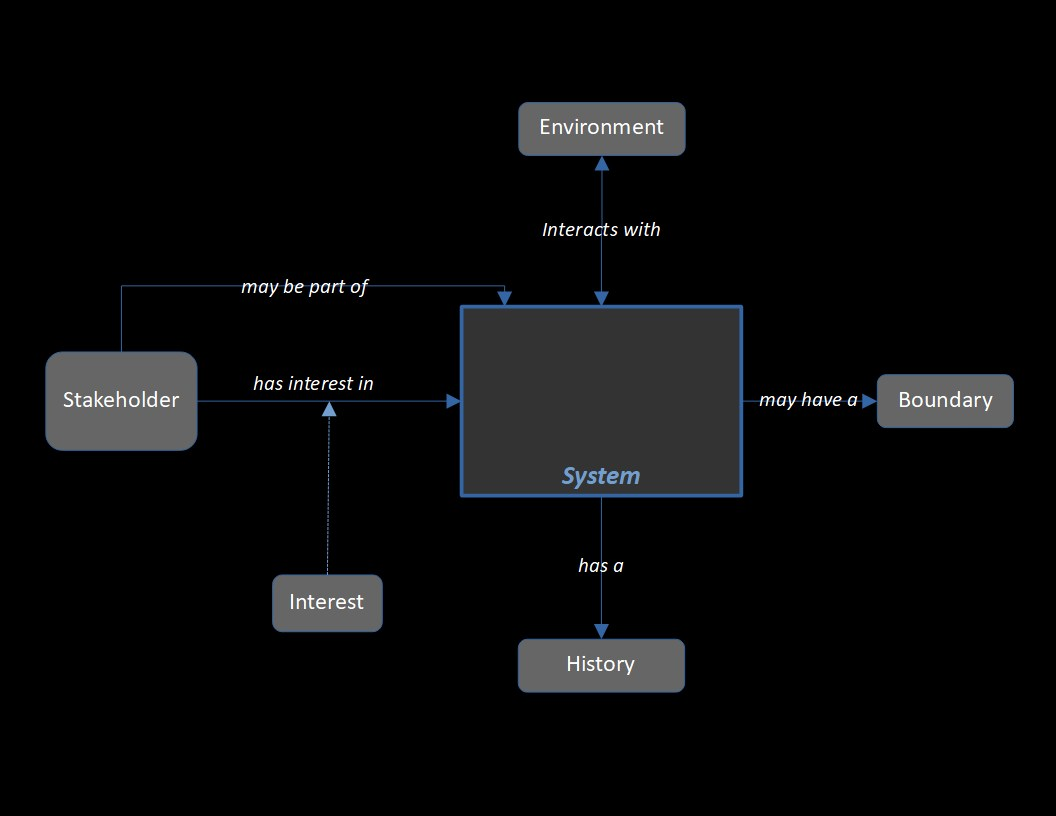
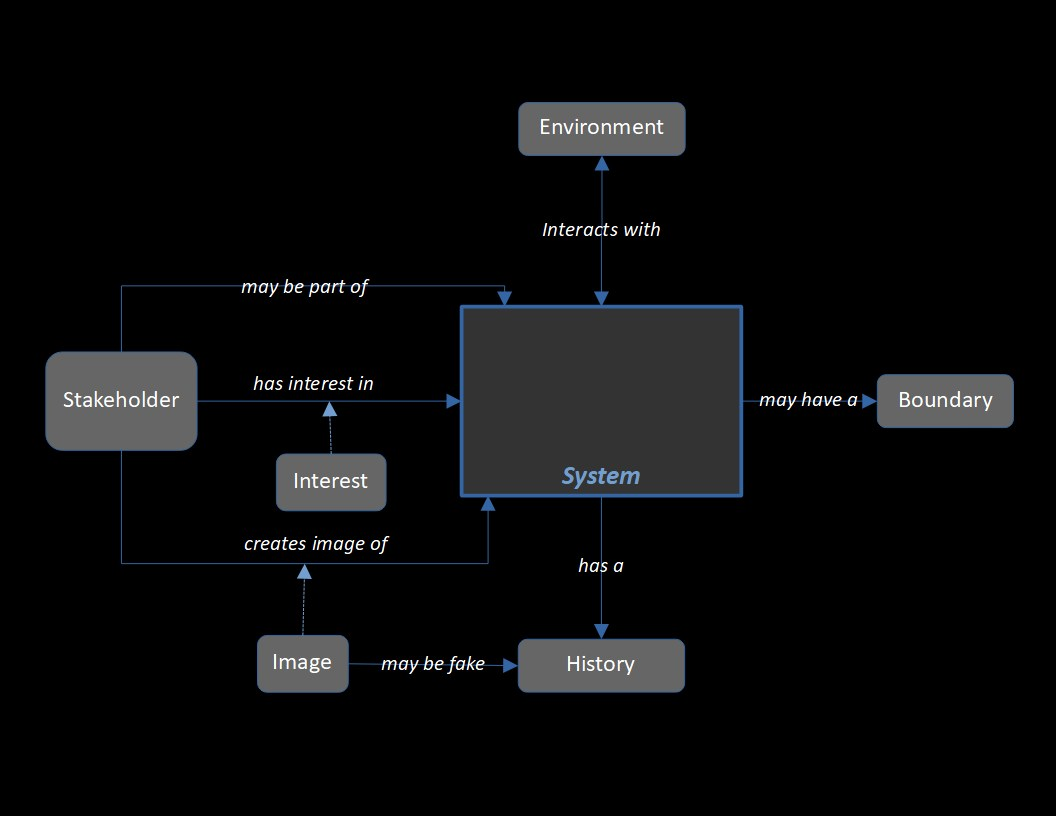
Added first Democracy workshop
And tried to make TOC more friendly.

Changed region(s): [[0.2188, 0.5515, 0.5, 0.8578], [0.4375, 0.6127, 0.4688, 0.6434]]

diff --git a/workbook/index.html b/workbook/index.html
@@ -20,13 +20,16 @@ title: Philosophy Workbook
 	</p>
 
 <h1>Table of Contents</h1>
-
+<br><br>
 <h2>Acknowledgements</h2>
 	<dl>
 	<dt><a href="acknowledgements">Acknowledgements</a></dt>
 	<dd>Land acknowledgements. Personal ones to follow later</dd>
   </dl>
+  <br>
 
+<hr style="height:4px;color:white; background-color:red">
+<br>
 <h2>Introduction</h2>
 	<p> An overview of the whole work. </p>
 	<div class="indent1">
@@ -49,7 +52,7 @@ title: Philosophy Workbook
         <dt> <!-- <a href="whywriting">Why read this?</a>-->Language tools</dt>
         <dd>Tools for understanding the use of language in context, in particular the malicious uses.
 Meaning as use and language games.</dd>
-<br><br>
+<br><hr style="height:4px;color:white; background-color:red"><br>
 <h2>Workshops on today's situation</h2>
 	 <p>A series of workshops on many topics concerning the state of the Eurocentric social systems and the global environment today.
 	 </p>
@@ -71,12 +74,12 @@ Meaning as use and language games.</dd>
 			<dd>The consequences of the fact that human understanding is more limited than we think but machine understanding does not exist.</dd>
  	   </dl>
    	</div><!-- /.indent1 -->
-
+<hr>
   <h3>First Workshops on Capitalism</h3>
 	A first round of workshops on capitalism, using some basic tools. This will be followed by further rounds as I develop further tools.
 	  <div class="indent1">
       <dl>
-				<dt> <a href="basicbsdetection">Basic Bullshit Detection</a></dt>
+				<dt> <a href="problemswithcapitalism">Problems With Capitalism</a></dt>
 				<dd>Warming up with some basic tools for detecting lies and bullshit</dd>
 
 				<dt> <a href="liesbsdoublethinks">Lies, Bullshit and Doublethink</a></dt>
@@ -89,12 +92,13 @@ Meaning as use and language games.</dd>
  	      <dd>The basic components and interactions, and the supporting systems</dd>
  	    </dl>
 	  </div><!-- /.indent1 -->
-
-    <h3>Sovereign States are a bad idea</h3>
+<hr>
+<br>
+    <h3>First Workshops on Sovereign States</h3>
     The Earth is divided into sovereign states. This was not designed for our good and there are reasons to believe it is not. In this series of workshops, I lay a foundation for understanding this system of systems.
     <div class="indent1">
     <dl>
-     <dt><a href="reasonfordoubt">Reason for Doubt</a></dt>
+     <dt><a href="countryreasonfordoubt">Reason for Doubt</a></dt>
      <dd>Countries are divisions of the Earth based on former conflict. The system is structured for conflict. This is bad</dd>
      <br>
 
@@ -109,13 +113,26 @@ Meaning as use and language games.</dd>
 
       </dl>
     </div>
-
+<br><hr><br>
 
 	<h3>First Workshops on democracy</h3>
-  A first round of workshops on democracy, introducing some basic ideas about systems thinking.
-	<div class="indent1">
+  A first round of workshops on eurocentric democracy, introducing some basic problems, initial definitions and a view of eurocentric democracy as a system.
+  <br><br>
+  <div class="indent1">
 	<dl>
- 	 <dt> <!-- <a href="whywriting">Why read this?</a>--> Defining Democracy</dt>
+
+    <dt><a href="problemswithdemocracy">Obvious Problems with Representative Democracy</a>
+    </dt>
+    <dd>
+      <ul>
+        <li>Democracy favours white men and rich people.</li>
+        <li>Democracy is limited in scope.</li>
+        <li>We can only elect parties, no say in policy.</li>
+        <li>No accountability.</li>
+      </ul>
+    </dd>
+
+   <dt> <!-- <a href="whywriting">Why read this?</a>--> Defining Democracy</dt>
  	 <dd>The dictionary definition and why it is not adequate</dd>
 	 <br>
 

diff --git a/testpages/index.html b/testpages/index.html
@@ -1,0 +1,19 @@
+---
+layout: default
+title: A Blog About This Site
+---
+
+	<h1>{{ page.title }}</h1>
+	This blog is mostly about the rationale for the contents of the site and the changes I make to it.
+	<br>
+	I might post some of my photography, just to make things interesting.
+	<br>
+	<br>
+	<ul class="posts">
+
+	  {% for post in site.posts %}
+	    <li><span>{{ post.date | date_to_string }}</span> » <a href="{{ post.url }}" title="{{ post.title }}">{{ post.title }}</a>
+
+			</li>
+	  {% endfor %}
+	</ul>

diff --git a/workbook/glossary.html b/workbook/glossary.html
@@ -16,6 +16,12 @@ title: Glossary
   <dd>Those Countries and cultures centred on western European ideas, including Australia, New Zealand, Canada. Often called “Western”, though that makes no sense on a globe,</dd>
 </dl>
 
+<h2>M</h2>
+<dl class="">
+  <dt>MADPE loop</dt>
+  <dd>Monitor, Analyse, Design, Plan, Execute: the basic loop in this workbook for producing change. Introduced in <a href="whatexpect">What to Expect</a></dd>
+</dl>
+
 <h2>S</h2>
 <dl class="">
   <dt>Sociosystem</dt>

diff --git a/workbook/socialsystemsintro.md b/workbook/socialsystemsintro.md
@@ -1,3 +1,7 @@
+# Introduction to tools
+
+## Introduction to Social Systems Thinking
+
 The core of what I have to say is the inversion of Margaret Thatcher’s famous dictum “there is no such thing as society, there are only individuals and families”.
 On the contrary, there is no such thing as an isolated individual or family, they are all products of societies.
 
@@ -5,13 +9,16 @@ We are given our humanity through the social institutions we inhabit and make. W
 
 We use tools made by others, which are possible only through social institutions. Although today many come from the global community through lengthy supply chains, this has always been so. Even the solitary individuals of literature, such as Robinson Crusoe, arrive in that state as adults, furnished with language and ideas for tools which they brought with them from their parent societies.
 
-Nothing about our individuality came fully-formed except through our membership in various social systems: family, country, school, economic system, media audience and many more.
+Very little about our individuality came fully-formed except through our membership in various social systems: family, country, school, economic system, media audience and many more.
 
 Nothing about our behaviour can be understood except in the context of those memberships and our behaviour can have much effect except by way of the support of those systems.
 
 That is why it is as important to understand our roles and their history in those systems as it is to understand our behaviour as individuals and its history.
 
-This is what I mean by social systems thinking.
+When should we think in terms of systems? “Almost always” is my basic rule of thumb, mostly just as a corrective to the fact that it is so rarely practised, but that  is perhaps a little too broad.
+
+One indicator that I find useful is to consider how common certain behaviour or thinking is within a given system. If some bad behaviour is exhibited by a small number of people, it may well be due to individual behaviour of those people, acquired before becoming part of the system, especially if that low background proportion is common in other systems. This is the police version of the “few bad apples” theme. They attribute bad behaviour to just a few people behaving badly against a background of mostly wonderful people.
+
 
 There are quite a few books and academic papers about systems thinking in general. I find that they have a lot of useful ideas, although all that I have read or skimmed show a bias towards the type of system that the author started with. It therefore seems likely that I share that bias so I make a conscious attempt to avoid it. I started my understanding of systems with that of computer systems as I generalised my experience from computer programmer, through application architect to solution architect, which was my final role before retirement.
 
@@ -35,7 +42,7 @@ Adaptive systems have a history. We often gain insight into what the system does
 
 Systems interact with their environment and vice versa (which is why the line linking system and environment has an arrow on both ends). Those environments can include the physical environment, such as when a corporation extracts minerals and dumps waste, or can include larger systems of which they are a part, such as when a corporation is part of a capitalist economy. Understanding these interactions are essential to understanding their behaviour and importance.
 
-Finally, as far as this diagram goes, there are stakeholders who have interests in the system. I hesitated several times over this word, because when used in business contexts, it often has the meaning of “those who have acquired a stake in the company” - derived from the use in gambling where your stake is the amount you have bet. However, it also means anyone with an interest in the impacts of the system, such as the global public who have an interest in having clean air and a stable climate, which is affected by the emissions of corporations. That is the meaning I adopt here. We usually identify stakeholders by their role, rather than as particular individuals.
+There are stakeholders who have interests in the system. I hesitated several times over this word, because when used in business contexts, it often has the meaning of “those who have acquired a stake in the company” - derived from the use in gambling where your stake is the amount you have bet. However, it also means anyone with an interest in the impacts of the system, such as the global public who have an interest in having clean air and a stable climate, which is affected by the emissions of corporations. That is the meaning I adopt here. We usually identify stakeholders by their role, rather than as particular individuals.
 
 In social systems, we also have to recognise that the stakeholders may be a part of the system, which is one of the main reason that social systems thinking needs special care to ensure that the tools for generic systems thinking are applicable without change. This is represented on the diagram by the relationship “Stakeholder may be part of system”. It is also important to investigate to what extent the stakeholders are conscious of both the workings of the system and their roles within the system because that influences how likely they are to act as agents of change within the system. This is a particular distinguishing feature of social systems when compared with other complex adaptive systems.
 
@@ -45,8 +52,10 @@ One particular type of concern of particular note is “purpose”. Contrary to 
 
 For most voters, the purpose of a democracy may be to give them an equal say in decision-making, but for the wealthy, it may be to provide an illusion of that so that they can retain power in proportion to their wealth. This conflict, together with the history of eurocentric democracy which resulted from the struggle of the “lower orders” to wrest power first from the aristocracy and then from business owners, help us understand better why we have such an imperfect compromise which still mostly favours the rich. I will explore this in more detail later.
 
+A further addition to the diagram that is unique to social systems is that stakeholders may create or promote false images of the social system which are used as marketing tools to gain consent to the the current functioning of the system. For example, the pretence that free-markets are the most efficient way of producing goods and services or that representative democracy gives every voter an equal say in decision-making. These are often false histories. We are seeing these remade now in the USA where State lawmakers are legislating against what they call “Critical Race Theory” but are specifically aimed at reshaping history by suppressing facts about racism. We also see it in the received history in the UK where Empire has always been taught as a Good Thing, bringing civilisation to the world, with no mention of the horrors of colonialism, enslavement and resource extraction among others things.
+
 ***
-[Previous: What to expect](whatexpect) \| [Next: Workshops; Basic bullshit detection](basicbsdetection) \| [Return to Table of Contents](./index)
+[Previous: What to expect](whatexpect) \| [Next: First Workshops on Capitalism: Problems with Capitalism](basicbsdetection) \| [Return to Table of Contents](./index)
 
 ***
 

diff --git a/workbook/whatexpect.md b/workbook/whatexpect.md
@@ -2,7 +2,9 @@
 
 This is a workbook, in the form of a series of workshops, in the sense of “a meeting at which a group of people engage in intensive discussion an activity on a particular subject or project”[^fn1], except that I don’t know if anyone will join in the discussion on social media.
 Each workshop introduces some methods and tools and then applies them to a problem. Because I am learning as I go, I will show my work and then at the end of the project, discuss whether I could have done better; whether they were effective and how they should be improved or either abandoned or at least limited in scope if they have proven too limited for the issue at hand.
-Some of the tools I use are less familiar to many people, so there is an initial section in which I introduce them before attempting to use them in workshops.
+Some of the tools I use are less familiar to many people, so there is an initial section in which I introduce them before attempting to use them in workshops. These are primarily systems thinking tools, adapted for thinking primarily about social systems, and language tools, adapted from linguistic philosophy for more everyday purposes, especially social systems.
+
+
 Each workshop will
 
 * Explain one or a few tools to be used for the first time, or in an expanded format
@@ -12,6 +14,14 @@ Each workshop will
 * Suggest improvements to the systems (or explain why they should be abolished)
 
 As you can see, this implies a continuous loop that can go on forever; at least until we have perfect systems and perfect understanding of them. Not likely in the next few millennia.
+
+The initial few workshops on each system will have a particular structure. They will:
+
+1. Give a few reasons to think that the systems have significant adverse effects or do not do what their proponents claim they do.
+2. Define the system, first by examining dictionary definitions, then by showing their limitations and how I adapt them for the purposes of this workbook
+3. Use the initial systems thinking tools to provoke and answer basic question about them.
+
+Later workshop structures will be more specific to each system.
 
 There won’t be a lot of actually improved systems while I am writing this. It seems that the trend is in the opposite direction. However, we can and should imagine some possibly improved systems and apply the tools to see if they at least seem better. This is likely to require some radical changes — including abolition — to existing systems and the introduction of new ones. On the other hand, I am a little dubious about armed revolution, if only because many seem to turn out with armed men in charge. It may turn out to be the only way, but we would at least need a way to prevent them resulting in a dictatorship with only a vague promise of a people’s paradise in the far distant future.
 
@@ -38,6 +48,7 @@ It stands for:
 * **E**xecute --- the plan
 
 The loop, shown at the centre the diagram below, provides a useful summary of the whole approach and I will use it as a model for the structure of the projects. The darker colours show the areas I will focus on. For people who cannot see the diagram well, everything in the diagram will be covered in the text, though the finer detail will be in later projects.
+
 The focus of this workbook is on the Analyse and Design and Plan steps, though I will comment on the other steps on occasion. It will also omit many other approaches, on the weak but necessary grounds that I do not have expertise worth sharing, especially non-eurocentric approaches, but including many parts of eurocentric knowledge in the humanities, arts, science, engineering and technology that are relevant but beyond my expertise.
 
 The rectangles surrounding the MADPE loop represent, starting at the bottom,  are some of the systems that I will look at. There are only a few of them included, by way of example, such as the government, the news media and the education system.
@@ -67,6 +78,10 @@ The reason for the iteration between design and planning is that without a plan 
 Finally, the loop concerns itself with specific systems, both current and future, which include Government, Media, Research, the Economy, Unions, Education, Infrastructure, the Biosphere and many more.
 
 In order to analyse the current systems, it is useful to have some idea of what we would ideally want our systems to do, so that we can see how, according to our monitoring, they do what we would like them to do. This will not be the same in detail for everyone; uniform systems and cultures are not only not desirable, they are . However, we are often told why systems such as capitalism and liberal democracy are valuable, so we can start by seeing if they conform to their own ideals and to those which have been arrived at after much debate, such as the United Nations declarations on Human Rights and the Rights of Indigenous Peoples, and various rights embedded in the constitutions of eurocentric countries. Even a cursory look suggests a large gap between such principles an the actual behaviour of the current colonialist systems that seek to assimilate Indigenous and minority cultures.
+
+Because of this, my initial workshops on each system start with a few major reasons to think they are not working in our best interests. Then I make a first attempt at a definition of the system, starting with a dictionary definition from the Oxford English Dictionary, with a look at Merriam-Webster if it differs significantly. Then I ask if there are problems with the usefulness of the definition, including clarity. If necessary, I introduce my own definitions, as close as possible to the dictionaries’ definitions.
+
+Next, I apply a framework for understanding social systems which I will outline in the next section, before starting the workshops. The framework isn’t intended to capture everything about every system, but rather to capture some questions that are usually worth asking.
 
 My white, cis, heterosexual, male, opinions on what the world should look like are of no great interest or value. They are included only for the sake of illustrating the method and tools.
 

diff --git a/workbook/problemswithdemocracy.md b/workbook/problemswithdemocracy.md
@@ -1,0 +1,37 @@
+# First Workshops on Democracy
+  A first round of workshops on eurocentric democracy, introducing some basic problems, initial definitions and a view of eurocentric democracy as a system.
+
+## Obvious problems with Representative democracy
+
+Democracy is supposed to be a good thing because it gives everyone an equal say in the important decisions that affect us all.
+
+In practice, it fails on several counts.
+
+The first count is that in actual practice, the policy resulting from legislatures is heavily biased towards the wants and needs of particular groups of people. For example, in several studies in the USA  [Vox, 2015-06-13: These graphs show the veto power of white men in politics](https://www.vox.com/2015/6/13/8768773/white-men-politics-influence), actual policy changes are driven primarily by the views of one demographic group: white men.
+
+>State policy changes reflect men's preferences but not women's. Using slightly different methodology, Stephanopoulos compared states' overall ideological bent (as measured by actual policies enacted) to the bent of different demographic groups within the state. As this graph shows, women's political ideology has almost no effect on states' overall leanings.
+
+(My emphasis).
+
+> As support for a policy increases in black communities, “the likelihood of the policy’s adoption stays constant at best, and in fact may decline somewhat”.
+
+Another papers cited in this article shows that
+
+> Compared to people with incomes both at the bottom 10th and 50th percentile, those with incomes in the top 10th percentile were significantly more likely to see policies enacted that they approved of in cases where there's major rich-poor disagreement.
+
+It is particularly obvious in the US that wealth buys power, but it seems to apply in other eurocentric democracies.
+
+The second count is that democracy is very limited in scope. We are constantly hearing demands for “small government” and “privatisation” because, supposedly, private businesses will make more efficient decisions. But that means many decisions having great effect on us are being taken with no consultation of the majority of people. Decisions made by the market, whether “free” or controlled as it is now by oligarchs are the opposite of democracy, as long as we have unequal wealth. At present, the scope of decision-making by government is very limited.
+
+A third count is the lack of accountability. This is primarily because we vote for people, not policies. The people run on three grounds: what nice people they are, what a great party they represent and what excellent policies they argue for during the election. The first two should be irrelevant as far as most people are concerned but they have no obligation to actually implement any of the policies they claimed to support. There are absolutely no consequences until the next election even if they do the exact opposite immediately on election. And as I just noted, they supposedly represent the voters, but they do not, they represent their party. I get frequent mailings from my MP, but they are all about his party’s policies. Even in response to, for example, my letter to him about the dreadful state of rural Internet services in our riding, he explained his party’s policy on cell phone coverage, with nothing about what he could do about being able to get enough bandwidth to stream video.
+
+Another reason is that power in government is very concentrated. It is a little different in the US where the executive and the legislature can sometimes be at loggerheads, but the current situation under Biden, with a bare majority in the House and Senate appears to have to give way to the minority party on many initiatives. What is clear is that power is concentrated in party elites and  that both limits the choices of the electorate and concentrates it in fewer hands. For a UK example, see “The Establishment and how they get away with it” by Owen Jones.
+
+In parliamentary systems, where the executive is part of the legislature, power has been increasingly concentrated in the executive [^fn1]. . Since the Prime Minister has power of appointment of all other government positions, they have enormous control over the rest of the executive since they can be hired and fired at will, as well as many other patronage appointments. The current situation in the UK where the Prime Minister has been proven guilty of criminal offences and of misleading Parliament over “Partygate”, yet is refusing to resign and is so far able to avoid political consequences until someone else is able to build a coalition of MPs strong enough to oust him.
+
+***
+[Previous: Countries as Systems ](countriesassystems) \| [Next: Not written yet, just a stub](stub) \| [Return to Table of Contents](./index)
+
+***
+
+[^fn1]: See, for example “Court Government and the Collapse of Accountability in Canada and the United Kingdom” by Donald Savoie.]

diff --git a/workbook/basicbsdetection.md b/workbook/basicbsdetection.md
@@ -8,14 +8,16 @@ The Oxford English Dictionary defines this as
 
 > An economic and political system in which a country’s trade and industry are controlled by private owners for profit, rather than by the state.
 
-Even the dictionary illustrates one simple, logical error; there is a logical flaw in this definition. It seems to imply that there are only two choices, private owners for profit or the state. The last part, after the comma, should be omitted. There are others, including a cooperative model where trade and industry are controlled by communities or by non-profit organisations.
+Even the dictionary illustrates one simple, logical error with a logical flaw in its definition. It seems to imply that there are only two choices, private owners for profit or the state. The last part, after the comma, should be omitted. There are other choices, including a cooperative model where trade and industry are controlled by communities or by non-profit organisations.
 
 This is similar to the rule known by logicians as the law of the excluded middle, which says that either a statement or its negation must be true. Either this is a cat, or this is not a cat, there is no middle option. Except in this case, the two options are not negations of each other. The authors of the dictionary have been misled by the fact that the commonest options are the two given, *in our current capitalist environment*. But there is no logical reason why other ways are excluded.
+
 The law of the excluded middle is one of the so-called three laws of thought. Another is the law of non-contradiction, the idea that both a statement and its contradiction cannot both be true in the same context. Contradictions can include negations (This is a dog / this is not a dog) and statements that can’t both be true (This is a dog / this is a cat)[^fn1].
 
 Contradictions are often easy to detect. Donald Trump was famous for contradicting himself in the same speech. Others are harder because they may be disguised, such as by using different terms which are synonyms. (I am determined, which is a virtue; you are stubborn, which is not).
 
 A second way is to find that the statement is not supported by the evidence. This is more difficult. As limited beings with limited skills, we may not know how to assess the evidence. Even more so, we do not have the time to fact check every claim before we decide on a course of action.
+
 Which leads us to the need for a third way, which is to judge the people who are making the claims. Although this is sometimes called a logical fallacy, named ad hominem, this shows that strict logic has its failings. It may not be absolute proof that you have a cancer that a well-known oncologist has told you that they have reviewed all the tests and  all the images and that unfortunately you had a tumour and should have treatment, but you would be well advised to trust them more than a person who has no medical training who said that they had reviewed the same evidence but concluded that you had nothing wrong with you and shouldn’t listen to the doctor.
 
 This is also an illustration that understanding the world based on strict logic will never work. Here, we are using a theory supported by statistics. The theory is that under similar circumstances, people will behave in a similar fashion, on average. The statistics is how often they make false claims. We can’t know that accurately, but we can get a sense from how often they are caught out, though we also need to know how reliable those catchers are.
@@ -24,7 +26,7 @@ In this workshop, I will focus on the first and in a later one, on the third.
 
 Some of the contradictions in capitalism are found between the claims made for the way in which markets are the best way to assure efficiency, and the way in which large corporations actually behave.
 
-If it is far more efficient to have many, small, competing entities attempting to deliver goods and services, why do CEOs of large corporations buy out small ones instead of just buying their products from them?
+If it is far more efficient to have many, small, competing entities attempting to deliver goods and services, why do CEOs of large corporations buy out small ones instead of just buying their products from them? To be
 
 Why do they have their own in-house departments instead of inviting bids for their goods and services?
 Because they know that the shortened communication lines, speed of decision-making and many other factors can make it more efficient then buying everything on an open market.

diff --git a/workbook/whywriting.md b/workbook/whywriting.md
@@ -1,7 +1,10 @@
+---
 Title: Philosophy Workbook
 Author: Eric Lawton
+---
 
 # Why I am writing this and why you might want to read it #
+
 The world is in a mess.  We are in the midst of a deadly pandemic and climate and biodiversitiy crises, but people are resisting the means to end them; we have an illegitimate political system which claims to be a democracy but excludes most people from most decisions; we are continuing the genocide of Indigenous peoples, yet white people are wilfully ignorant because we benefit from it; fascism is rising again; although we have more information and knowledge widely available than ever before, yet it is often behind paywalls and overwhelmed by a flood of misinformation, lies and propaganda, to name but a few.
 
 This is the result of deliberate choices made by powerful people that are made in order to maintain their wealth and power, rather than to create systems that will provide a better life for most of us.
@@ -10,7 +13,9 @@ We must change this, and we can.
 
 These are my thoughts towards understanding our current situation and how we can change it for the better. I am an old, white, cisgender man, living on stolen land under the claimed jurisdiction of a state called Canada. I have been educated and socialised in a colonial, capitalist, representative democracy. It takes work to understand how the system works and --- since this system maintains itself by bombarding those within it with propaganda in its favour --- it takes work to see its fundamental flaws and to find ways to overcome them.
 
-I am working on two main aspects, though like most concepts they are not fully distinct: the intellectual tools which I use during the thinking and the results of applying those to my subject matter which are mainly humans in Eurocentric[^fn1] societies and the institutions we have built. You may find either of these useful or interesting. Even when I make mistakes, I find them instructive when I realise where I have gone wrong.
+When I say “my thoughts”, I mean mostly the thoughts of others that fit together with all the others jumbled in my brain, pruned by exercises like this, but on a smaller scale. As I approach my third quarter century, it’s time for a major pruning before I lose the capacity.
+
+I divide the work into two main aspects, though like most concepts they are not fully distinct: the intellectual tools which I use during the thinking and the results of applying those to my subject matter which are mainly humans in Eurocentric[^fn1] societies and the institutions we have built. You may find either of these useful or interesting. Even when I make mistakes, I find them instructive when I realise where I have gone wrong.
 
 You, too, might find it instructive. My path through life has been different from yours and so my collection of thinking tools is different. We are all more limited beings than we usually acknowledge but one of the ways we can overcome our individual limitations is through sharing and collaboration. Indeed, I would be delighted to collaborate with anyone who would like to, initially via my Twitter account @eric0lawton.  In "collaborate", I include strong, reasoned criticism, but not insults or mere contradiction. I realise that Twitter is not a good medium but we can find another channel if you are interested.
 

diff --git a/_posts/2022-04-09-The-IPCC-report-and-revolution.md b/_posts/2022-04-09-The-IPCC-report-and-revolution.md
@@ -19,4 +19,4 @@ Since the people in power still think like this, we cannot expect them to change
 
 I hope this workbook will help me work towards an understanding of what might work towards this. Even better if it helps others and so help us all move quickly and fix things. Even if it only helps by showing my mistakes, because it’s unlikely I am the only one making them.
 
-I will be shifting my priorities to understanding Eurocentric representative democracy, sovereign states and capitalist economics, which I believe are the biggest obstacles. I have made a start on them in the workshops _[Sovereign States are a bad idea: Reason for Doubt](/workbook/reasonfordoubt)_ and _[First Workshops on Capitalism: Basic Bullshit Detection](/workbook/basicbsdetection)_ and I have a draft of initial workshops for democracy which I hope to publish here this week.
+I will be shifting my priorities to understanding Eurocentric representative democracy, sovereign states and capitalist economics, which I believe are the biggest obstacles. I have made a start on them in the workshops _[Sovereign States are a bad idea: Reason for Doubt](/workbook/countryreasonfordoubt)_ and _[First Workshops on Capitalism: Basic Bullshit Detection](/workbook/basicbsdetection)_ and I have a draft of initial workshops for democracy which I hope to publish here this week.

diff --git a/workbook/countriesassystems.md b/workbook/countriesassystems.md
@@ -47,7 +47,7 @@ One of the main powers that the state takes is the ability to manage the economy
 The diagram also says that a country may be a partial democracy. This is in a different colour to indicate that this is an attribute of a country, rather than a separate part.  This will be the subject of several later workshops. It also says that a nation may be a country and vice versa, though colonialism has made this increasingly rare. Generally the concept is most useful when a nation is seeking recognition of its sovereignty from colonial rule, since a nation is less of an artificial construct than a country.
 
 ***
-[Previous: Clarifying the Concepts](clarifyingtheconcepts) \| [Next: Not written yet, just a stub](stub) \| [Return to Table of Contents](./index)
+[Previous: Clarifying the Concepts](theconceptsofcountries) \| [Next: First Workshops On Democracy: Obvious Problems with Representative Democracy](problemswithdemocracy) \| [Return to Table of Contents](./index)
 
 ***
 [^fn1]: The use of “national” as an adjective blurs the distinction between country and nation but that is the common usage, as in “National anthem”.

diff --git a/workbook/capitalismandprinciples.md b/workbook/capitalismandprinciples.md
@@ -94,7 +94,7 @@ So it is reasonably clear that it is the meaningful activity that is protected h
 It is a while since I read the UDHR, I was not surprised by the amount of ambiguity, given the difficulty in getting more authoritarian states to sign it, but I was surprised how far almost all states are from implementing it. You may wish to read it yourself and see if you can complete for the four elements for principles for a few from the little that is given. I found it helpful in understanding what they could mean if it were seriously intended to build a community on the basis of these rights. I will revisit this later.
 
 ***
-\| [Previous: Workshops; Lies, Bullshit and Doublethink](liesbsdoublethink) \| [Next: Nation States are a Bad Idea](reasonfordoubt) \| [Return to Table of Contents](./index) \|
+\| [Previous: Workshops; Lies, Bullshit and Doublethink](liesbsdoublethink) \| [Next: Nation States are a Bad Idea](countryreasonfordoubt) \| [Return to Table of Contents](./index) \|
 
 ***
 

diff --git a/workbook/countryreasonfordoubt.md b/workbook/countryreasonfordoubt.md
@@ -1,8 +1,8 @@
-# Sovereign States are a Bad Idea
+# First workshops on Sovereign States
 The Earth is divided into sovereign states. This was not designed for our good and there are reasons to believe it is not.
 In this series workshops, I lay a foundation for understanding this system of systems and either justify the claim in the title or persuade myself otherwise.
 
-## Reason For Doubt
+## Problems with Countries
 
 The land on the Earth is currently divided into a set of patches of land together with a margin of sea around the land, except for Antarctica and a few small disputed patches. The United Nations recognizes each of these, together with an institution for each patch which it recognizes as the sovereign government of that patch, including everything in it, including all its people.
 
